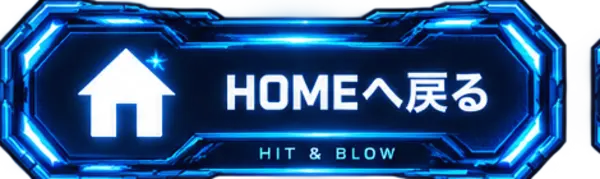
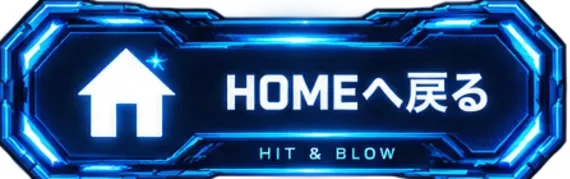
Add files via upload

diff --git a/public/style.css b/public/style.css
@@ -3729,3 +3729,85 @@ body.dm-open{overflow:hidden!important}
   .hitblow-page .hb-history-sheet-head .hb-modal-close{width:82px!important;min-width:82px!important}
   .hitblow-page .battle-home-btn.hb-result-home{width:min(100%,280px)!important}
 }
+
+
+/* v5.81 — HIT&BLOW compact result controls + JANKEN UI first pass */
+.hitblow-page .hb-history-open.hb-art-button{
+  width:min(100%,238px)!important;
+  margin-top:8px!important;
+}
+.hitblow-page .hb-history-open.hb-art-button>span{
+  right:6%!important;
+  width:21px!important;
+  height:21px!important;
+  font-size:9px!important;
+}
+.hitblow-page .battle-home-btn.hb-result-home{
+  width:min(100%,246px)!important;
+  margin-top:10px!important;
+  overflow:hidden!important;
+}
+.hitblow-page .battle-home-btn.hb-result-home img{
+  display:block!important;
+  width:100%!important;
+  max-width:100%!important;
+  height:auto!important;
+  object-fit:contain!important;
+  overflow:hidden!important;
+}
+@media(max-width:620px){
+  .hitblow-page .hb-history-open.hb-art-button{width:min(100%,220px)!important}
+  .hitblow-page .battle-home-btn.hb-result-home{width:min(100%,236px)!important}
+}
+
+.janken-page .hb-status.jk-art-status{
+  width:132px!important;
+  min-width:132px!important;
+  height:auto!important;
+  min-height:0!important;
+  padding:0!important;
+  margin:0!important;
+  border:0!important;
+  background:transparent!important;
+  box-shadow:none!important;
+  overflow:visible!important;
+}
+.janken-page .hb-status.jk-art-status img{
+  display:block!important;
+  width:100%!important;
+  height:auto!important;
+  object-fit:contain!important;
+}
+.janken-page .jk-result-mark.jk-art-result-mark{
+  left:50%!important;
+  bottom:-5px!important;
+  width:64px!important;
+  height:auto!important;
+  padding:0!important;
+  border:0!important;
+  background:transparent!important;
+  color:transparent!important;
+  box-shadow:none!important;
+  transform:translateX(-50%)!important;
+}
+.janken-page .jk-result-mark.jk-art-result-mark img{
+  display:block!important;
+  width:100%!important;
+  height:auto!important;
+}
+.janken-page .result-winner .battle-avatar-wrap{
+  box-shadow:0 0 18px rgba(68,255,205,.16)!important;
+}
+.janken-page .result-loser .battle-avatar-wrap{
+  box-shadow:0 0 18px rgba(255,82,111,.12)!important;
+}
+@media(max-width:620px){
+  .janken-page .hb-status.jk-art-status{
+    width:118px!important;
+    min-width:118px!important;
+  }
+  .janken-page .jk-result-mark.jk-art-result-mark{
+    width:58px!important;
+    bottom:-4px!important;
+  }
+}
